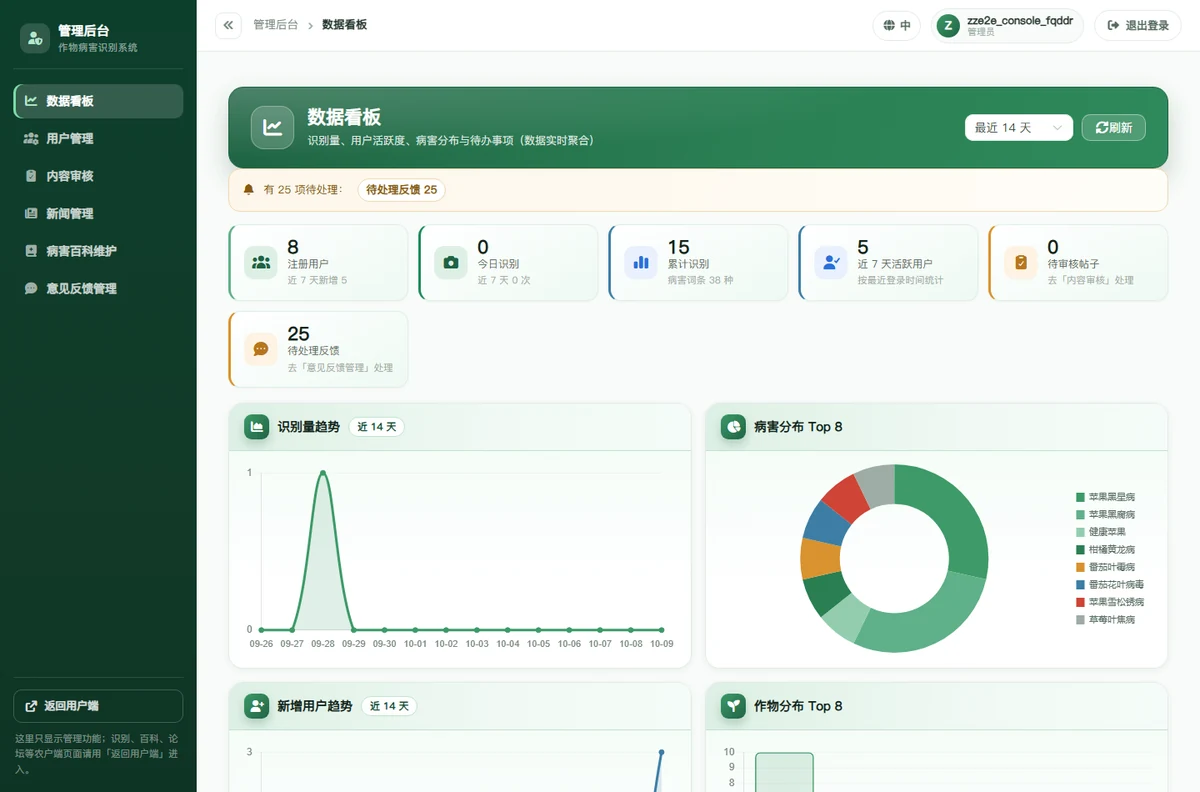
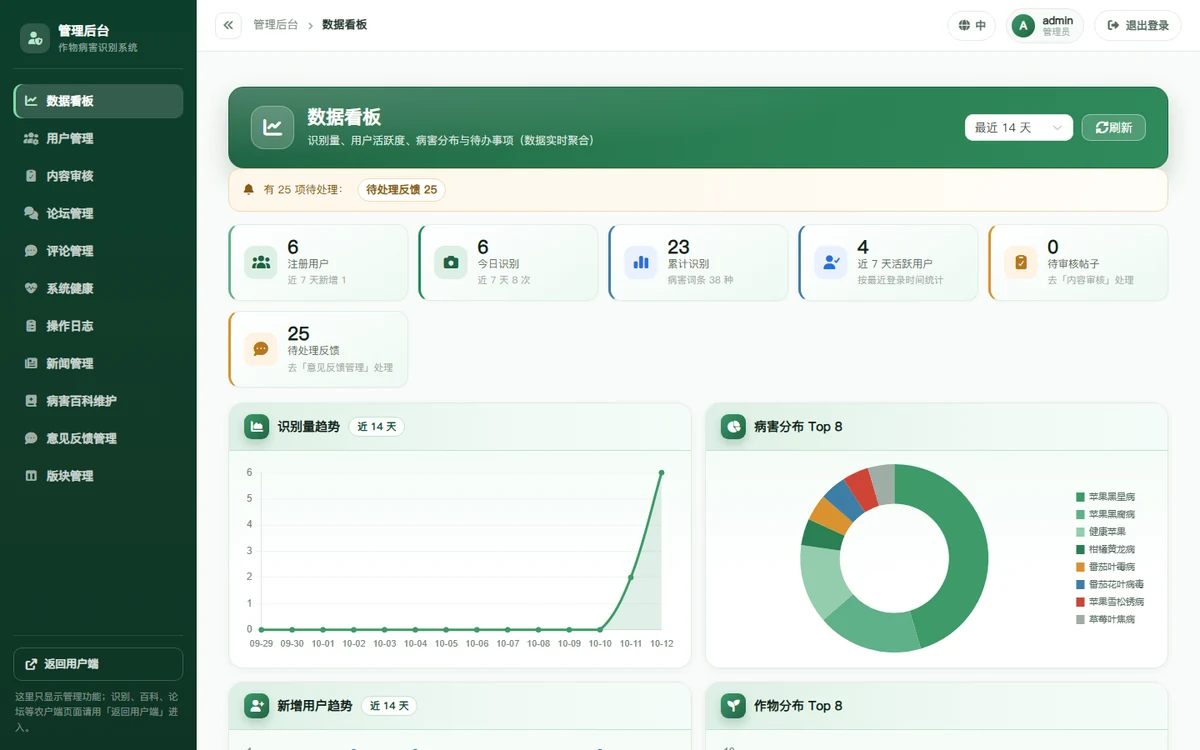
docs(配图): README/docs 全部配图改用真实管理员账号 admin 重截（第 160 批）
用户要求：GitHub README 的图片重新做，用管理员账号 admin；docs/ 里 .md 引用的图一并改。

为什么：那 8 张图原本来自两处且都不是 admin —— 农户端 4 张是一次性账号
zze2e_demo_xxx 截的、管理端 4 张是各 E2E 脚本用 zze2e_xxx 截的，
README 首屏顶栏写着机器名。

做法：新增 frontend/scripts/capture-docs-shots.mjs，一个脚本截全 8 张：
- 不动 admin 的密码：Django 给 admin 签发 token + 用登录接口同款的
  CustomUserSerializer 数据注入 sessionStorage（键名同 utils/authStorage.js）；
- 演示内容（版块/三条求助帖/一条已软删除可恢复的评论/三条操作日志）全挂 admin 名下；
- 识别结果那张真的上传苹果黑星病图片并等结果（图上因此是中文名 + 真实症状防治）；
- 评论管理那张先切「评论范围=已删除」，才看得到「原内容/(admin 删除)/恢复」；
- 结束清理演示内容与历次 E2E 留下的 zze2e 操作日志。

⚠ 过程中 optimize_readme_images.py 误删了 4 张已入库的 WebP：
它的清理逻辑是「本目录其它图片格式一律删」，而农户端源 PNG 在两个脚本里写在
不同目录 → 新脚本跑完后工具找不到源文件，就顺手把已入库的图删了（README 断链）。
两处修掉：① 源文件两个目录都找；② 只在「本次确实重新生成过同名文件」时才删，
其余一律保留并提示 —— 删除不可逆，宁可留多余文件也不要删掉有用的图。

顺带修：造日志时把字符串当 target 传（页面显示 built-in method title of str object...）
→ 改传对象、自定义文字走 target_repr；清掉 4 行 zze2e 日志 + 1 行 XSS 测试残留；
识别结果图不再截进「识别完成!」吐司（多等 6 秒）；补丁脚本自己踩了模板字符串带反引号的坑。

结果：docs/images 8 张共 449 KB（1200px / WebP q88），README 7 个图片链接全部有效，
每张图逐张看过（admin + 中文识别结果 + 恢复按钮 + 干净的操作日志）。

diff --git a/docs/tools/optimize_readme_images.py b/docs/tools/optimize_readme_images.py
@@ -15,7 +15,8 @@
 其中两张**反而更大**了（PNG 对"照片 + 界面"这种内容本来就压不动）。
 换 WebP（quality 88）后同样清晰、体积降到约三分之一，GitHub 的 Markdown 也支持。
 
-农户端那几张由 `frontend/scripts/capture-readme-shots.mjs` 直接生成到同一目录
+农户端那几张由 `frontend/scripts/capture-docs-shots.mjs` 生成（第 160 批起；
+它用**真实管理员账号 admin** 一次截全 8 张，旧的 capture-readme-shots.mjs 已被它取代）
 （它们原本不存在 —— 33 张截图里全是管理端与登录页）。
 
 用法：
@@ -42,7 +43,7 @@ ADMIN_SHOTS = {
     'admin-comment-restore.png': 'admin-comment-restore',
 }
 
-#: 农户端（由 capture-readme-shots.mjs 生成，这里只负责缩放与转码）
+#: 农户端（由 capture-docs-shots.mjs 生成，这里只负责缩放与转码）
 FARMER_SHOTS = (
     'farmer-home',
     'farmer-detect-result',
@@ -81,6 +82,7 @@ def main():
     # ⚠ 清理旧格式必须放在**转码之后**：第一版放在最前面，于是把农户端那几张 PNG
     #    （它们正是本次的输入）当成"旧格式"删掉了，脚本接着报"文件不存在"。
     written = set()
+    written_stems = set()      # 本次真正重新生成过的文件名（不含扩展名）
 
     missing = []
     for source_name, target_stem in ADMIN_SHOTS.items():
@@ -91,12 +93,21 @@ def main():
         target = OUT / f'{target_stem}.{args.format}'
         before, after = save_as(source, target, args.max_width, args.format)
         written.add(target)
+        written_stems.add(target.stem)
         print(f'  · {target.name}：{before:.0f} KB → {after:.0f} KB')
 
     for stem in FARMER_SHOTS:
-        source = OUT / f'{stem}.png'          # 采集脚本产出的是 PNG
-        if not source.exists():
-            missing.append(str(source.relative_to(ROOT)))
+        # ⚠ 源文件在两个地方都找一遍：第 153 批那版采集脚本直接写进 docs/images/，
+        #    第 160 批的 capture-docs-shots.mjs 写在 frontend/dsh-shots/。
+        #    只认一个目录的话，另一边跑完就会被当成"源文件不存在"，接着在清理阶段
+        #    把已经入库的 WebP 删掉 —— 第 160 批就这么误删过 4 张 README 图。
+        source = next(
+            (candidate for candidate in (SHOTS / f'{stem}.png', OUT / f'{stem}.png')
+             if candidate.exists()),
+            None,
+        )
+        if source is None:
+            missing.append(f'{stem}.png（frontend/dsh-shots/ 与 docs/images/ 下都没有）')
             continue
         if args.format == 'png':
             before, after = save_as(source, source, args.max_width, 'png')
@@ -105,21 +116,31 @@ def main():
             target = OUT / f'{stem}.{args.format}'
             before, after = save_as(source, target, args.max_width, args.format)
         written.add(target)
+        written_stems.add(target.stem)
         print(f'  · {target.name}：{before:.0f} KB → {after:.0f} KB')
 
-    # 转码完成后再清理：把上一次留下的其它格式（例如换成 WebP 后残留的 PNG）删掉
+    # 转码完成后再清理：把上一次留下的其它格式（例如换成 WebP 后残留的 PNG）删掉。
+    #
+    # ⚠⚠ 只删"本次确实重新生成过同名文件"的旧格式。
+    # 第一版是"凡是本目录里其它图片格式一律删" —— 于是只要某个源文件缺失，
+    # 它对应的那张**已经入库的图**就会被顺手删掉（README 立刻变成断链）。
+    # 删除是不可逆的，宁可留下一个多余文件，也不要删掉一张还有用的图。
     for stale in OUT.glob('*'):
         if stale in written or not stale.is_file():
             continue
-        if stale.suffix.lstrip('.').lower() in FORMAT_ARGS:
-            stale.unlink()
-            print(f'  · 清理旧格式：{stale.name}')
+        if stale.suffix.lstrip('.').lower() not in FORMAT_ARGS:
+            continue
+        if stale.stem not in written_stems:
+            print(f'  · 保留（本次没有重新生成同名文件）：{stale.name}')
+            continue
+        stale.unlink()
+        print(f'  · 清理旧格式：{stale.name}')
 
     total = sum(f.stat().st_size for f in OUT.glob('*') if f.is_file()) / 1024
     print(f'\ndocs/images/ 现在有 {len(list(OUT.glob("*")))} 个文件，合计 {total:.0f} KB')
 
     if missing:
-        print('\n⚠ 下列文件不存在（先跑 frontend/scripts/capture-readme-shots.mjs，或检查截图名）：')
+        print('\n⚠ 下列文件不存在（先跑 frontend/scripts/capture-docs-shots.mjs，或检查截图名）：')
         for item in missing:
             print('   ·', item)
         return 1
